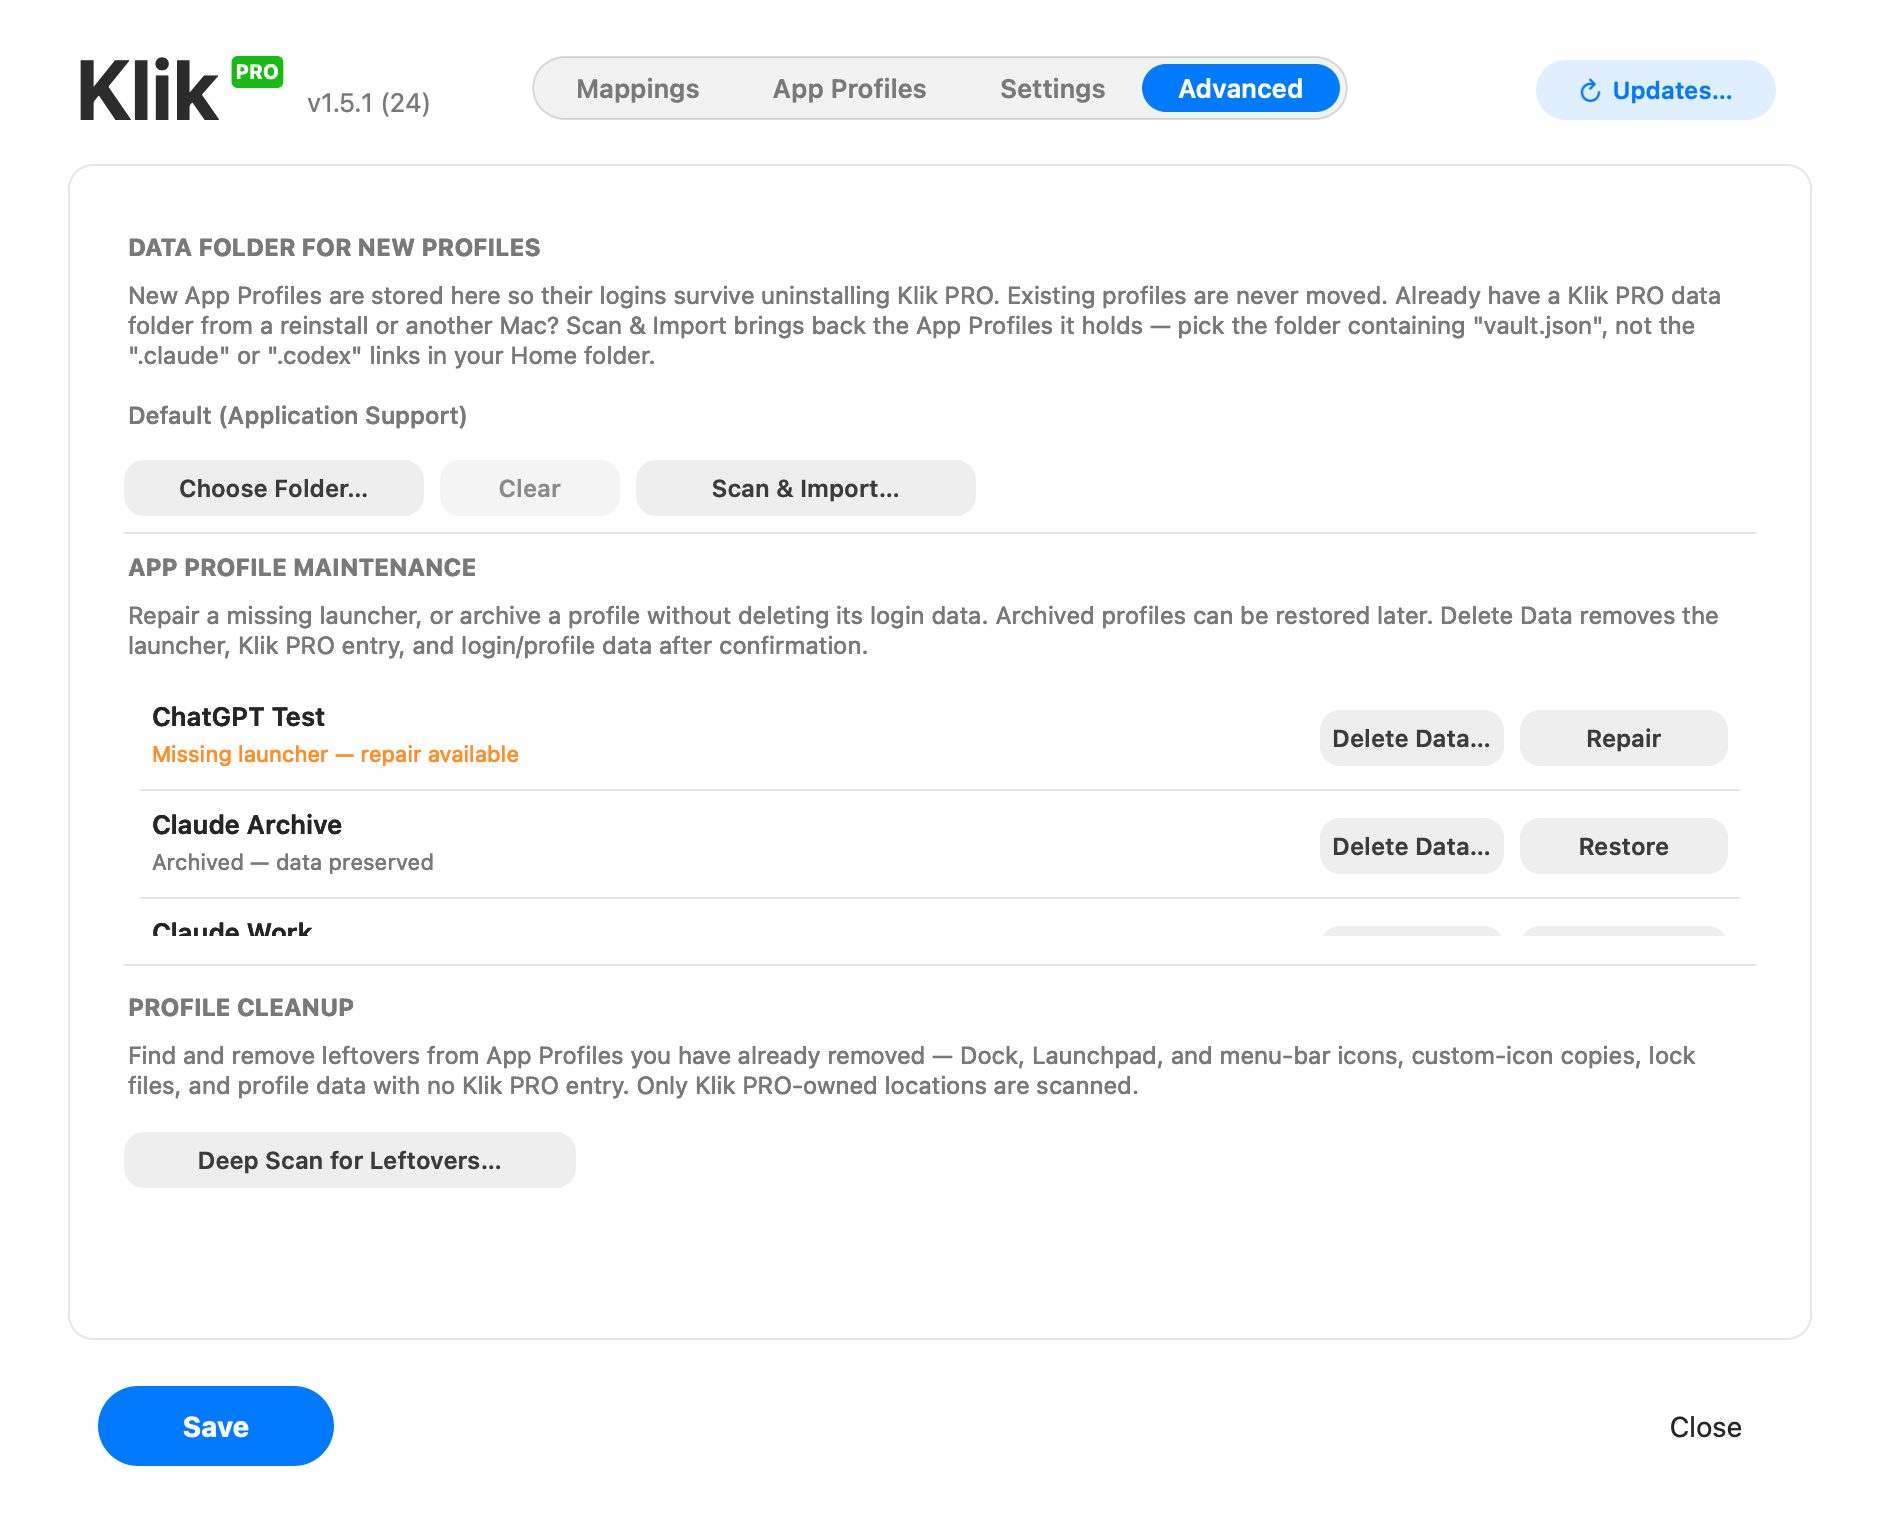
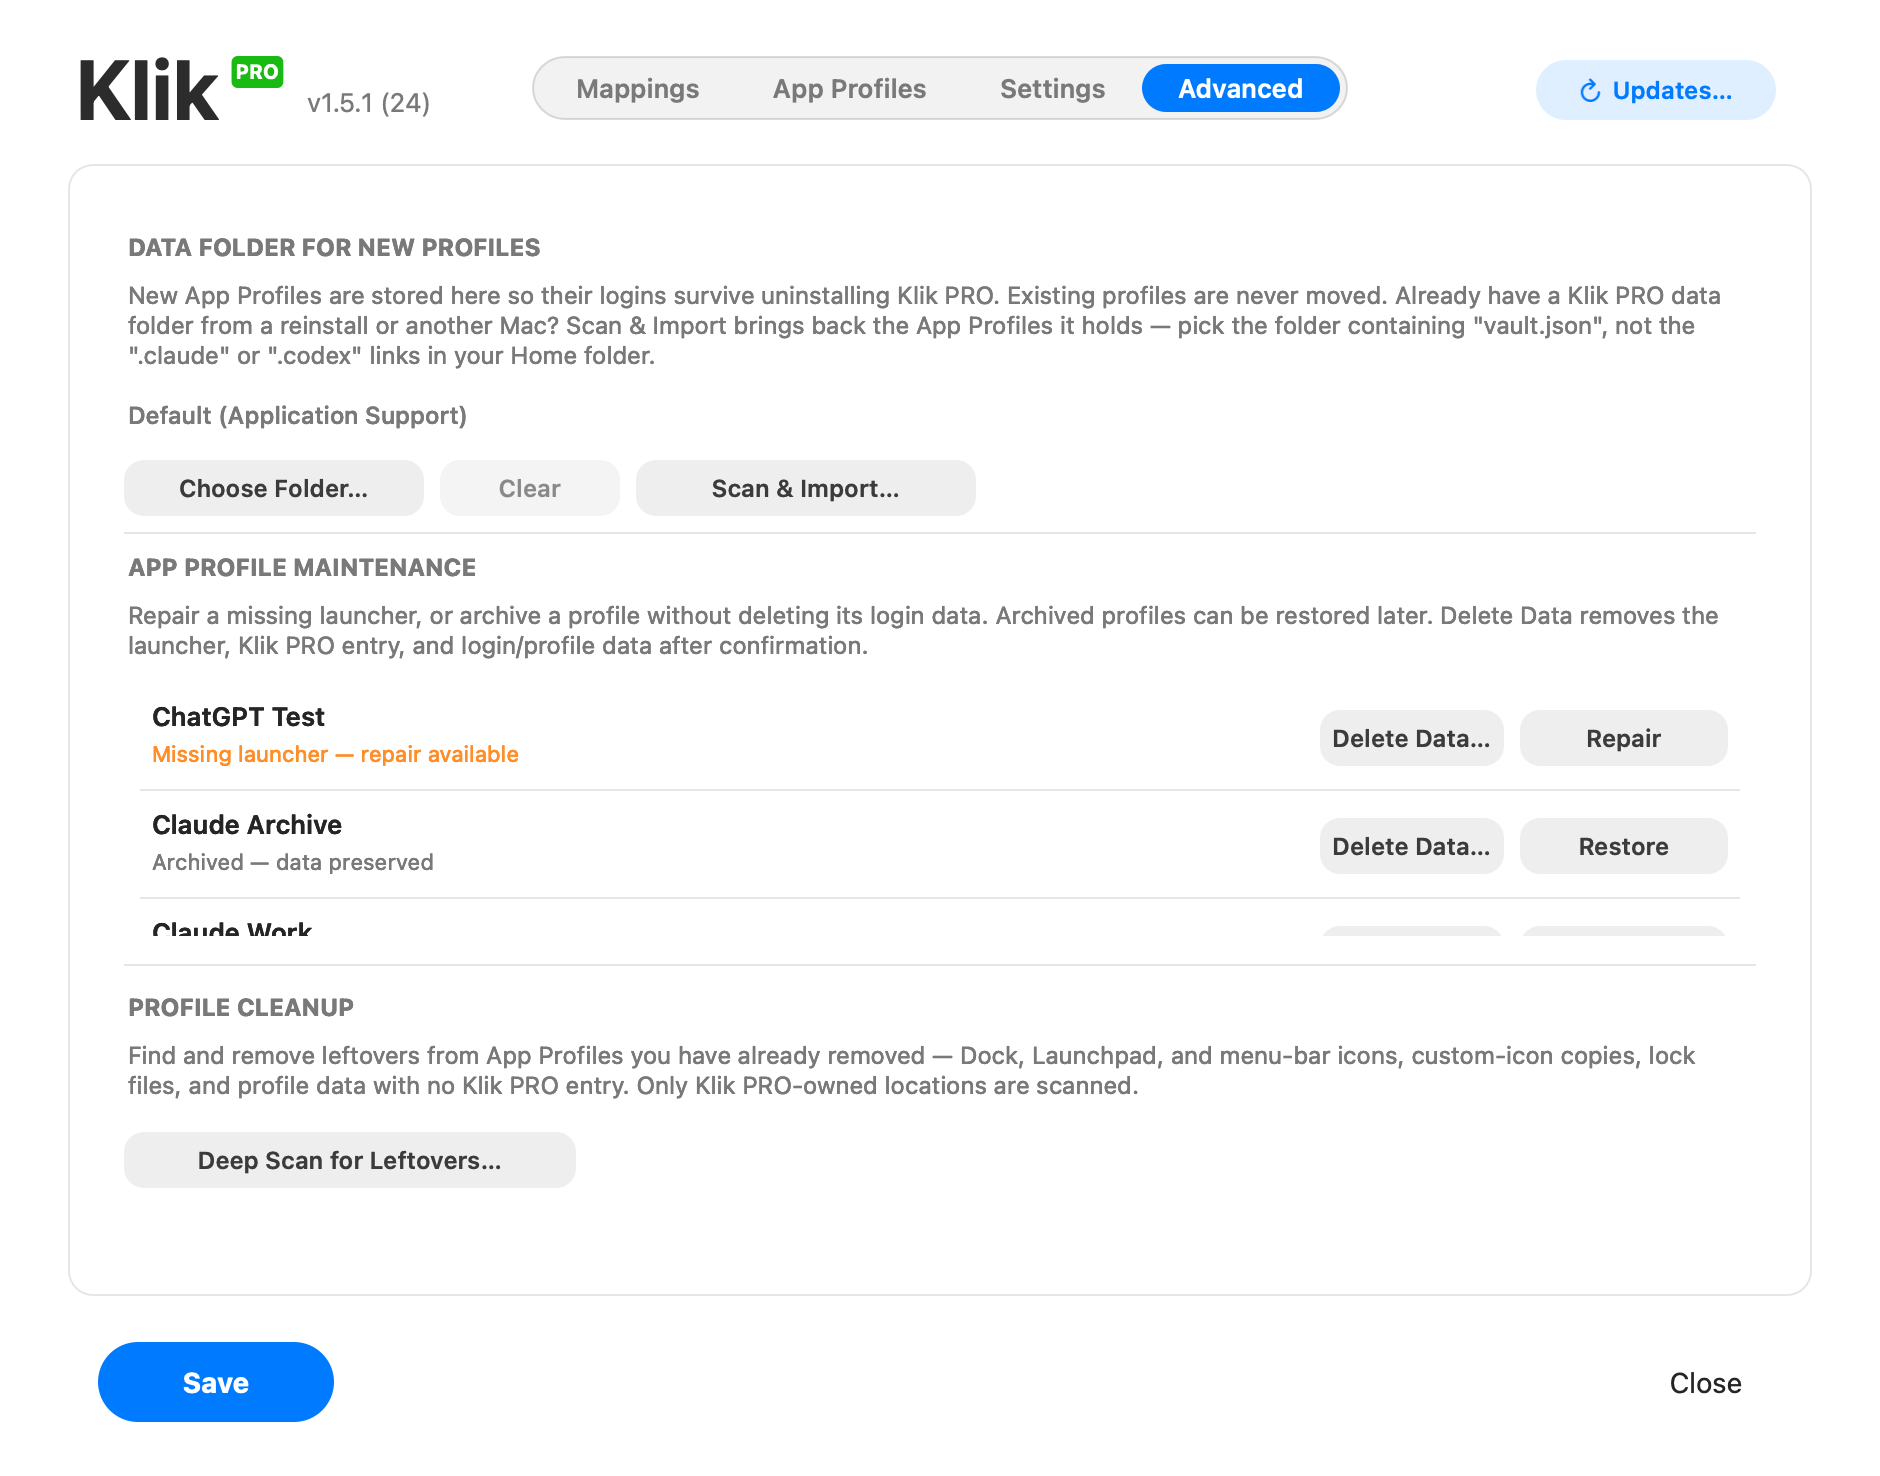
Set final dashboard height to 770 points

diff --git a/Sources/KlikProApp.swift b/Sources/KlikProApp.swift
@@ -2607,7 +2607,7 @@ final class SettingsContentView: NSView {
     let thumbWheelToggle: ToggleSwitchView
     let thumbWheelBrowsers: ThumbWheelBrowsersButton
     let mouseProfileHeader = MouseProfileHeaderView(
-        frame: NSRect(x: 0, y: 0, width: 872, height: 326)
+        frame: NSRect(x: 0, y: 0, width: 872, height: 304)
     )
     private let mouseSlideContainer: MouseSlideContainerView
     var onThumbWheelToggle: ((Bool) -> Void)?
@@ -2645,9 +2645,9 @@ final class SettingsContentView: NSView {
     // The mouse-guide + callouts row is prioritised (it's the point of this tab); the
     // bottom two columns are a quick-access companion — full management lives on the
     // App Profiles tab — so the guide gets the larger share of the height.
-    static let deviceCard         = NSRect(x: 0, y: 0, width: rightCardX + rightCardW, height: 326)
+    static let deviceCard         = NSRect(x: 0, y: 0, width: rightCardX + rightCardW, height: 304)
     // Native apps + App Profiles, side by side across the full width, below the guide.
-    static let mappingBottomCard  = NSRect(x: 0, y: 340, width: rightCardX + rightCardW, height: 248)
+    static let mappingBottomCard  = NSRect(x: 0, y: 318, width: rightCardX + rightCardW, height: 248)
 
     private static func previewAppIcon(for target: QuickLaunchTarget) -> NSImage {
         let label = target == .chatGPT ? "G" : "C"
@@ -2865,7 +2865,7 @@ final class SettingsContentView: NSView {
             frame: NSRect(x: 380, y: 68, width: 150, height: 26)
         )
 
-        super.init(frame: NSRect(x: 0, y: 0, width: width, height: 588))
+        super.init(frame: NSRect(x: 0, y: 0, width: width, height: 566))
 
         mouseSlideContainer.wantsLayer = true
         mouseSlideContainer.drawArtwork = { [weak self] card in
@@ -4082,7 +4082,7 @@ final class ToggleWindowController: NSWindowController {
 
     init() {
         let window = NSWindow(
-            contentRect: NSRect(x: 0, y: 0, width: 940, height: 760),
+            contentRect: NSRect(x: 0, y: 0, width: 940, height: 738),
             styleMask: [.titled, .closable, .miniaturizable],
             backing: .buffered,
             defer: false
@@ -4199,14 +4199,14 @@ final class ToggleView: NSView {
     private var mouseAccessRequired = false
     private let saveButton = PrimaryHoverButton(
         title: "Save",
-        frame: NSRect(x: 48, y: 692, width: 120, height: 42)
+        frame: NSRect(x: 48, y: 670, width: 120, height: 42)
     )
     // Check-for-updates button, top-right of the header (where the status pill used to be).
     // Right edge stays at x=888; the compact "⟳ Updates…" label lets it be narrower.
     private let updateButtonRect = NSRect(x: 768, y: 30, width: 120, height: 30)
     private var updateButtonTrackingArea: NSTrackingArea?
     private var updateButtonHovered = false
-    private let closeButtonRect = NSRect(x: 808, y: 692, width: 90, height: 42)
+    private let closeButtonRect = NSRect(x: 808, y: 670, width: 90, height: 42)
     private var closeButtonTrackingArea: NSTrackingArea?
     private var closeButtonHovered = false
     // Set by a successful check when a newer release exists; lights up the header button.
@@ -4304,12 +4304,12 @@ final class ToggleView: NSView {
         appProfilesView = AppProfilesContentView(
             instances: loadedConfig.instances,
             width: 872,
-            height: 588
+            height: 566
         )
         advancedView = AdvancedSettingsContentView(
             dataRoot: loadedConfig.dataRoot,
             width: 872,
-            height: 588
+            height: 566
         )
 
         super.init(frame: frameRect)
@@ -4318,7 +4318,7 @@ final class ToggleView: NSView {
         layer?.backgroundColor = NSColor.windowBackgroundColor.cgColor
 
         addSubview(headerWordmark)
-        scrollView.frame = NSRect(x: 34, y: 82, width: 872, height: 588)
+        scrollView.frame = NSRect(x: 34, y: 82, width: 872, height: 566)
         scrollView.hasVerticalScroller = false
         scrollView.autohidesScrollers = true
         scrollView.drawsBackground = false
@@ -10215,7 +10215,7 @@ final class ToggleView: NSView {
                 .font: NSFont.systemFont(ofSize: 12, weight: .semibold),
                 .foregroundColor: NSColor.systemRed
             ]
-            "Unsaved changes".draw(at: NSPoint(x: 184, y: 704), withAttributes: attrs)
+            "Unsaved changes".draw(at: NSPoint(x: 184, y: 682), withAttributes: attrs)
         }
 
         if let message = saveStatusMessage {
@@ -10223,7 +10223,7 @@ final class ToggleView: NSView {
                 .font: NSFont.systemFont(ofSize: 12),
                 .foregroundColor: NSColor.appTextSecondary
             ]
-            message.draw(at: NSPoint(x: 356, y: 704), withAttributes: attrs)
+            message.draw(at: NSPoint(x: 356, y: 682), withAttributes: attrs)
         }
     }
 

diff --git a/tools/render-app-profiles-showcase.swift b/tools/render-app-profiles-showcase.swift
@@ -52,10 +52,10 @@ let scenes = [
         subtitle: "App Profiles and Mappings refresh together, so assignments stay easy to recognise.",
         // Framed on the Mappings APP PROFILES column (y is from the TOP — see the
         // `crop` doc comment), so the scene actually shows the badged icons its caption
-        // is about. Re-tuned for the 940×760 dashboard and its two-row list viewport.
+        // is about. Re-tuned for the 940×770 dashboard and its two-row list viewport.
         // Nothing in check.sh verifies this framing — it only asserts the GIF exists —
         // so re-check it by eye after any change to the list geometry.
-        crop: NSRect(x: 950, y: 800, width: 850, height: 580)
+        crop: NSRect(x: 950, y: 760, width: 850, height: 560)
     ),
 ]
 
@@ -75,7 +75,7 @@ func render(_ scene: Scene) -> CGImage {
     NSColor.white.setFill()
     NSRect(origin: .zero, size: canvasSize).fill()
 
-    let eyebrow = "KLIK PRO 1.2.2 · APP PROFILES"
+    let eyebrow = "KLIK PRO 1.5.1 · APP PROFILES"
     eyebrow.draw(
         at: NSPoint(x: 72, y: 1090),
         withAttributes: [

diff --git a/Sources/AppProfilesUI.swift b/Sources/AppProfilesUI.swift
@@ -2213,7 +2213,7 @@ final class AppProfilesContentView: NSView {
 
     override var isFlipped: Bool { true }
 
-    init(instances: [AppProfileInstance], width: CGFloat, height: CGFloat = 588) {
+    init(instances: [AppProfileInstance], width: CGFloat, height: CGFloat = 566) {
         let generatorColumnWidth = floor(width * Self.generatorColumnRatio)
         let generatorListWidth = generatorColumnWidth - 36
         let generatorWidth = AppCardListView.contentWidth(for: generatorListWidth)
@@ -2603,7 +2603,7 @@ final class AdvancedSettingsContentView: NSView {
 
     override var isFlipped: Bool { true }
 
-    init(dataRoot: String?, width: CGFloat, height: CGFloat = 588) {
+    init(dataRoot: String?, width: CGFloat, height: CGFloat = 566) {
         super.init(frame: NSRect(x: 0, y: 0, width: width, height: height))
 
         // Locked state, centred. The lock icon is a pressable button.

diff --git a/tools/MouseSlideHitTestMain.swift b/tools/MouseSlideHitTestMain.swift
@@ -66,7 +66,7 @@ private struct MouseSlideHitTestMain {
             frame: NSRect(x: 0, y: 0, width: card.width, height: 640)
         )
         let document = HostView(
-            frame: NSRect(x: 0, y: 0, width: card.width, height: 588)
+            frame: NSRect(x: 0, y: 0, width: card.width, height: 566)
         )
         let container = MouseSlideContainerView(frame: card)
 

diff --git a/docs/HANDOFF_NEXT_UPDATE_v1.5.0.md b/docs/HANDOFF_NEXT_UPDATE_v1.5.0.md
@@ -48,31 +48,33 @@ actions continue to revalidate independently and fail closed.
 The dashboard is now sized around the MacBook Air M1 13-inch default
 1440 × 900 workspace:
 
-- fixed content size: `940 × 760` points (previously `940 × 934`);
-- fixed dashboard viewport: `872 × 588` points, with no outer vertical scroller;
-- the Mappings mouse guide and its callouts use a compact 326-point card;
+- fixed complete window size: `940 × 770` points, including the 32-point
+  macOS title bar (previously approximately `940 × 788`);
+- fixed AppKit content size: `940 × 738` points;
+- fixed dashboard viewport: `872 × 566` points, with no outer vertical scroller;
+- the Mappings mouse guide and its callouts use a compact 304-point card;
 - Native Apps, App Profiles, and Advanced maintenance are the only vertically
   scrolling areas; and
 - all tracked dashboard screenshots and the App Profiles showcase were
-  re-rendered at `1880 × 1520` Retina pixels.
+  re-rendered at `1880 × 1476` Retina content pixels.
 
-Last full verification after the compact-dashboard change:
+Last full verification after setting the exact 770-point complete-window height:
 
 ```text
 ./tools/xcode-dev.sh check
 All checks passed
-build/check-20260728-202617
+build/check-20260728-221753
 ```
 
 ## Private owner-test package
 
-A private universal v1.5.1 build was recreated locally after the compact
-dashboard change:
+A private universal v1.5.1 build was recreated locally after setting the exact
+770-point complete-window height:
 
 - DMG: `releases/Klik-PRO-v1.5.1-macos-universal.dmg`
[2 lines of base64/hex data omitted]
 - ZIP: `releases/Klik-PRO-v1.5.1-macos-universal.zip`
[2 lines of base64/hex data omitted]
 - Both checksum manifests and the local installer manifest have valid signatures
   from the checked-in Klik PRO release key.
 - `install-klik-pro.sh --verify-only` passed every authenticity and integrity

diff --git a/CHANGELOG.md b/CHANGELOG.md
@@ -10,9 +10,10 @@ All notable changes to Klik PRO are documented here.
 - Removed unchanged-state full code-signature rescans from the helper's
   five-second availability poll. Full validation still runs at startup, after
   relevant profile files change, and before every managed launch.
-- Reduced the dashboard to a 940×760-point window that fits 13-inch MacBook
-  displays without an outer vertical scrollbar. Native Apps, App Profiles, and
-  Advanced maintenance retain independent scrolling inside their list panels.
+- Reduced the dashboard to a 940×770-point complete window that fits 13-inch
+  MacBook displays without an outer vertical scrollbar. Native Apps, App
+  Profiles, and Advanced maintenance retain independent scrolling inside their
+  list panels.
 
 ## 1.5.0
 
